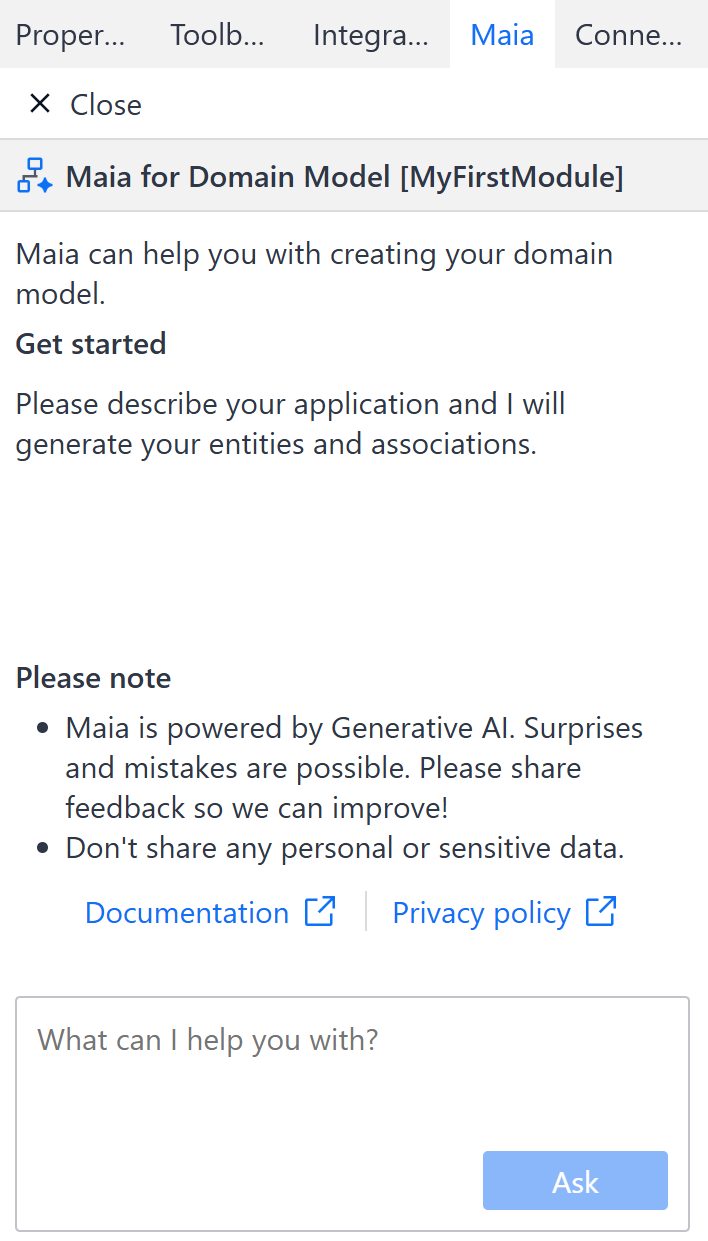
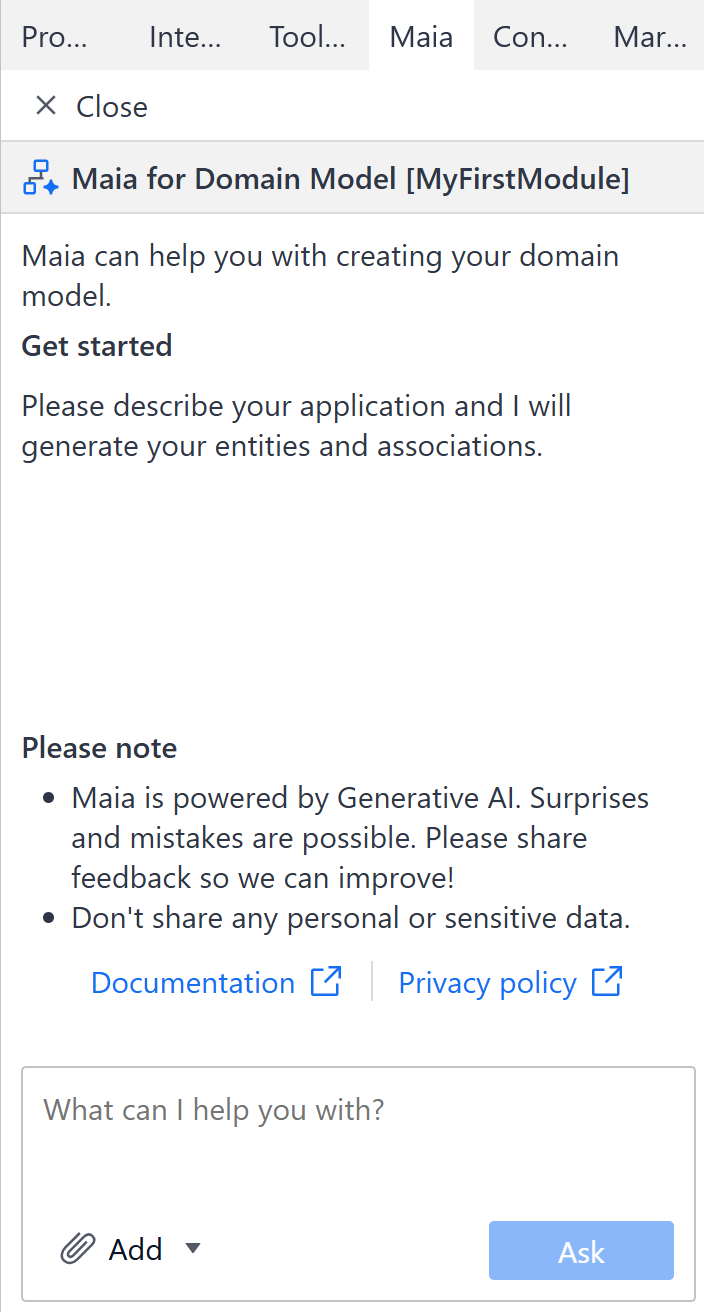
Documentation updates for Maia for Domain model and Start with Maia in 11.1

diff --git a/content/en/docs/refguide/modeling/mendix-ai-assistance/maia-for-domain-model.md b/content/en/docs/refguide/modeling/mendix-ai-assistance/maia-for-domain-model.md
@@ -30,7 +30,9 @@ After clicking **Maia for Domain Model**, a dedicated chat interface will appear
 
 {{< figure src="/attachments/refguide/modeling/mendix-ai-assistance/maia-for-domain-model/chat-interface.png" max-width=42% >}}
 
-Describe your application or its main goals in the chat. Maia will use this information to generate a relevant domain model for you. After a domain model is generated and if the dedicated chat is still active, you can continue asking Maia to add more entities and associations to the generated domain model. It also supports adding more attributes to an existing entity in the generated domain model.You can also ask Maia to explain or improve the generated domain model through further requests.
+Describe your application or its main goals in the chat. Maia will use this information to generate a relevant domain model for you. In Studio Pro 11.1 and above, you can also attach maximally one image and one PDF to help Maia better understand your request. For more information, see the [Attachment Requirements](#attachment-requirements) section below. 
+
+After a domain model is generated and if the dedicated chat is still active, you can continue asking Maia to add more entities and associations to the generated domain model. It also supports adding more attributes to an existing entity in the generated domain model.You can also ask Maia to explain or improve the generated domain model through further requests.
 
 {{% alert color="info" %}}
 Maia for Domain Model does not support deleting items in the domain model. You can always delete them manually. 
@@ -59,6 +61,15 @@ Below are examples of prompts you can use to ask Maia for explanations or sugges
 * I want to add an attribute `ATTRIBUTE_NAME` to the entity `ENTITY_NAME`.
 * I want to make the domain model more efficient. Can you suggest optimizations?
 * Could you identify any potential issues with this domain model and recommend solutions?
+
+### Attachment Requirements {#attachment-requirements}
+
+In Studio Pro 11.1 and above, Maia for Domain Model supports adding a maximal of one image and one PDF as attachments. The attachments must meet the following requirements:
+
+* The image format must be PNG or JPG.
+* The image file size must not exceed 512 KB.
+* The image resolution must be no greater than 3840 × 2400 pixels.
+* The PDF file size must not exceed 1024 KB.
 
 ## Limitations {#limitation}
 

diff --git a/content/en/docs/refguide/modeling/mendix-ai-assistance/start-with-maia.md b/content/en/docs/refguide/modeling/mendix-ai-assistance/start-with-maia.md
@@ -32,6 +32,7 @@ To create an app using **Start with Maia**, do the following:
     * A domain model with entities, attributes, and associations
     * Data management overview pages
     * Test data
+        {{% alert color="info" %}}In Studio Pro 11.1 and above, this step is optional, which allows you to continue without test data being successfully generated. {{% /alert %}}
     * A tailored homepage
 
 1. When your app is ready, you can click **OK** to close the dialog box and continue building in Studio Pro. Or you can click **OK & run app** to run the app locally and preview the generated pages with the randomly generated test data.
